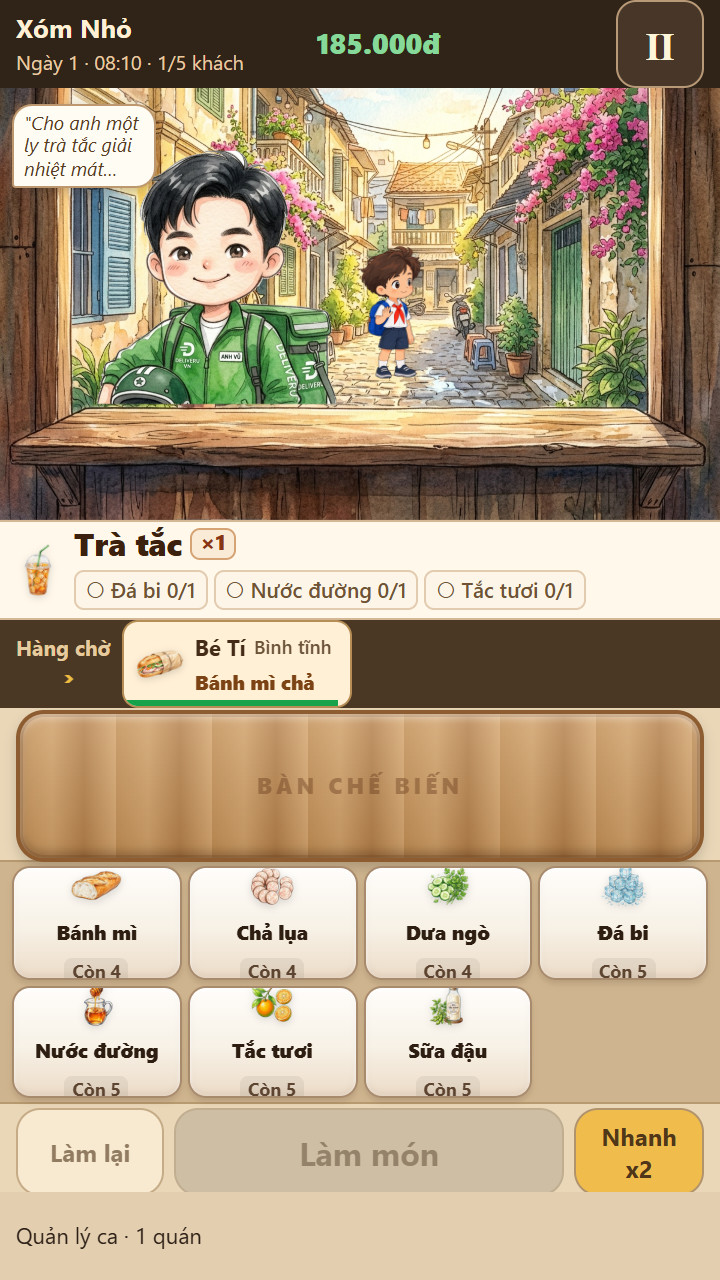
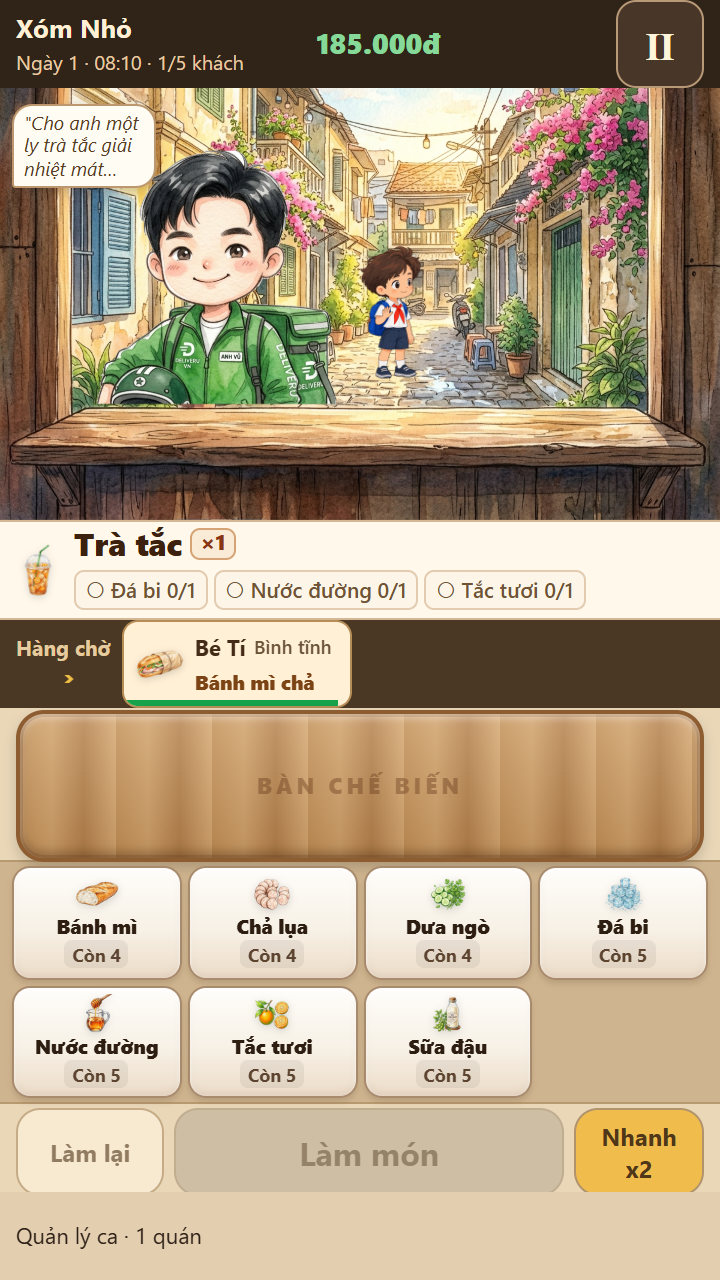
fix(ui): unclip stock lines in ingredient buttons, synchronize adult character to Be Ti standard, audit live toast

diff --git a/game/style.css b/game/style.css
@@ -2683,7 +2683,7 @@ button:focus-visible, [role=button]:focus-visible { outline: 3px solid #0e7490; 
 .cooking-board {margin:3px 8px;position:relative;border:2.5px solid #8d5c31;border-radius:14px;background:linear-gradient(180deg,rgba(255,255,255,0.18) 0%,rgba(0,0,0,0.08) 100%),repeating-linear-gradient(90deg,#c28e53 0px,#cf9e65 16px,#b47f48 32px,#d5a56d 48px);box-shadow:inset 0 2px 4px rgba(255,255,255,0.45),inset 0 -3px 5px rgba(60,30,10,0.35),inset 0 0 0 1.5px rgba(120,68,25,0.3),0 3px 6px rgba(0,0,0,0.16);display:flex;align-items:center;justify-content:center;gap:10px;overflow:hidden;color:#51301b;font-size:12px;min-height:76px;height:76px}
 .cooking-board>b{font-size:11px;max-width:100px}.selected-art{display:flex;align-items:center;justify-content:center;gap:2px;max-width:75%;height:72px}.selected-art img{width:56px;height:66px;object-fit:contain;animation:ingredientDrop .2s ease-out}.prep-assembly{position:relative;display:flex;align-items:center;justify-content:center;height:100%;width:100%}.prep-assembly-dish{display:flex;align-items:center;justify-content:center;height:100%;width:100%}.prep-art-banhmi{height:66px;width:auto;max-width:240px;object-fit:contain;filter:drop-shadow(0 4px 6px rgba(0,0,0,0.28));animation:ingredientDrop .25s ease-out}.prep-art-drink{height:68px;width:auto;max-width:130px;object-fit:contain;filter:drop-shadow(0 4px 6px rgba(0,0,0,0.22));animation:ingredientDrop .25s ease-out}.finished-dish-wrap{display:flex;align-items:center;justify-content:center;height:100%;width:100%}.finished-dish{height:66px;width:auto;max-width:140px;object-fit:contain;filter:drop-shadow(0 4px 6px rgba(0,0,0,0.25));animation:ingredientDrop .25s ease-out}.finished-dish.dish-TRA_TAC,.finished-dish.dish-SUA_DAU_DA{height:68px}.finished-dish.dish-BANH_MI_CHA,.finished-dish.dish-BANH_MI_TRUNG{height:64px;max-width:140px}.prep-idle-state,.prep-handoff-state{display:flex;align-items:center;justify-content:center;width:100%;height:100%}.prep-board-hint{font-size:11px;font-weight:800;letter-spacing:2px;color:rgba(100,55,25,0.4);text-transform:uppercase;font-family:inherit}.prep-handoff-state span{font-size:11.5px;font-weight:800;color:#166534;background:rgba(255,255,255,0.85);padding:2px 8px;border-radius:6px;box-shadow:0 1px 3px rgba(0,0,0,0.15)}.upgrade-header-row{display:flex;align-items:center;gap:6px;margin-bottom:2px}.upgrade-icon{font-size:18px;line-height:1}.upgrade-header-row b{font-size:13px;font-weight:800}.is-cooking .selected-art,.is-cooking .prep-assembly,.is-cooking .prep-assembly-dish{animation:cookSway .5s ease-in-out infinite alternate}.cook-progress{position:absolute;bottom:0;left:0;height:4px;width:100%;background:#f4d5a2}.cook-progress i{display:block;height:100%;background:#a65020}
 .ingredient-tray {display:grid;grid-template-columns:repeat(4,minmax(0,1fr));grid-template-rows:repeat(2,minmax(0,1fr));gap:4px;padding:3px 6px 4px;background:#cfb58f;border-top:1.5px solid #b89a70;border-bottom:1.5px solid #b89a70}
-.ingredient-button {position:relative;padding:2px 1px 2px;display:flex;flex-direction:column;align-items:center;justify-content:center;min-width:44px;min-height:44px;border:1.5px solid #a88a6d;border-radius:9px;background:linear-gradient(180deg,#fffdfa 0%,#f7f1e6 55%,#eddcc8 100%);box-shadow:inset 0 1px 2px rgba(255,255,255,0.9),inset 0 -2px 3px rgba(80,50,20,0.08),0 2px 3px rgba(50,30,10,0.14);color:#3e2714;overflow:hidden}.ingredient-button img{width:44px;height:26px;object-fit:contain;pointer-events:none;filter:drop-shadow(0 1px 2px rgba(0,0,0,0.15))}.ingredient-button b{font-size:10px;font-weight:800;line-height:1.15;margin:1px 0 0;color:#2e1e12}.ingredient-button small{font-size:9px;font-weight:700;height:13px;min-height:13px;line-height:13px;color:#5c4430;display:flex;align-items:center;justify-content:center;gap:2px;background:rgba(0,0,0,0.06);border-radius:4px;padding:0 4px;margin-top:1px}.ing-stock-line .ing-picked{color:#1b5e20;font-weight:900;font-size:9.5px;line-height:13px}.ingredient-button.picked{border-color:#2e7d32;background:linear-gradient(180deg,#f1f8e9 0%,#dcedc8 100%);box-shadow:inset 0 0 0 1.5px #43a047,0 2px 4px rgba(46,125,50,0.22)}.ingredient-button.quota-met{border-color:#2e7d32;background:linear-gradient(180deg,#e8f5e9 0%,#c8e6c9 100%)}.ingredient-button.quota-met:after{content:'✓';position:absolute;top:1px;right:3px;font-size:10px;font-weight:900;color:#1b5e20}.ingredient-button:active{transform:translateY(2px)}.ingredient-button:disabled{opacity:.45;box-shadow:none;filter:grayscale(40%)}.egg-placeholder{height:24px;display:grid;place-items:center;font-size:11px}
+.ingredient-button {position:relative;padding:2px 1px 3px;gap:1px;display:flex;flex-direction:column;align-items:center;justify-content:center;min-width:44px;min-height:44px;border:1.5px solid #a88a6d;border-radius:9px;background:linear-gradient(180deg,#fffdfa 0%,#f7f1e6 55%,#eddcc8 100%);box-shadow:inset 0 1px 2px rgba(255,255,255,0.9),inset 0 -2px 3px rgba(80,50,20,0.08),0 2px 3px rgba(50,30,10,0.14);color:#3e2714;overflow:hidden}.ingredient-button img{width:36px;height:20px;object-fit:contain;pointer-events:none;filter:drop-shadow(0 1px 2px rgba(0,0,0,0.15))}.ingredient-button b{font-size:10px;font-weight:800;line-height:1.1;margin:0;color:#2e1e12}.ingredient-button small{font-size:9px;font-weight:700;height:14px;min-height:14px;line-height:14px;color:#5c4430;display:flex;align-items:center;justify-content:center;gap:2px;background:rgba(0,0,0,0.06);border-radius:4px;padding:0 4px;margin:0;white-space:nowrap}.ing-stock-line .ing-picked{color:#1b5e20;font-weight:900;font-size:9.5px;line-height:14px}.ingredient-button.picked{border-color:#2e7d32;background:linear-gradient(180deg,#f1f8e9 0%,#dcedc8 100%);box-shadow:inset 0 0 0 1.5px #43a047,0 2px 4px rgba(46,125,50,0.22)}.ingredient-button.quota-met{border-color:#2e7d32;background:linear-gradient(180deg,#e8f5e9 0%,#c8e6c9 100%)}.ingredient-button.quota-met:after{content:'✓';position:absolute;top:1px;right:3px;font-size:10px;font-weight:900;color:#1b5e20}.ingredient-button:active{transform:translateY(2px)}.ingredient-button:disabled{opacity:.45;box-shadow:none;filter:grayscale(40%)}.egg-placeholder{height:20px;display:grid;place-items:center;font-size:11px}
 .cook-actions{display:flex;gap:5px;padding:3px 8px 4px;background:#ead7b8}.cook-actions button{border-radius:12px;border:1px solid #b1936c;font-weight:750;font-size:12px;min-width:54px;min-height:44px}.cook-main{flex:1;background:#b44921;color:white;font-size:16px!important;border-color:#7e2d17!important;box-shadow:0 3px 0 #772e19}.cook-main.ready{background:#2d8157;border-color:#1d5139!important;box-shadow:0 3px 0 #1d5139}.cook-main:disabled{background:#bfb098;border-color:#ab987d!important;color:#665640;box-shadow:none}.undo-button{background:#fff3df;color:#624b32}.boost-button{background:#f0bd4c;color:#513719;max-width:65px}.cook-actions button:disabled{opacity:.65}
 .play-status{position:absolute;bottom:96px;left:50%;transform:translateX(-50%);background:rgba(36,20,10,0.94);color:#fff9e6;font-size:11px;font-weight:700;padding:3px 14px;border-radius:20px;box-shadow:0 4px 12px rgba(0,0,0,0.3);z-index:100;pointer-events:none;white-space:nowrap;border:1px solid rgba(255,220,150,0.45);transition:opacity 0.2s ease}.play-status:empty{display:none}.play-options{font-size:11px;background:#e4ceb0;position:relative}.play-options summary{height:44px;min-height:44px;display:flex;align-items:center;padding:0 12px;cursor:pointer}.play-options[open]>div{position:absolute;bottom:44px;right:0;left:0;background:#fff4de;z-index:90;padding:10px;box-shadow:0 -4px 18px #382b1740;display:grid;gap:8px}.play-options button{background:#f5e2c3;border:1px solid #b59770;border-radius:10px;min-height:44px}.play-options small{font-size:12px}
 .morning-dashboard,.end-day {padding:16px;max-width:100%}.morning-hero{height:145px;border-radius:20px;background:linear-gradient(0deg,#392811a0,#39281105),url('../assets/environment/alley_counter_clean.jpg') center 47%/cover;color:#fff3da;padding:20px;display:flex;flex-direction:column;justify-content:flex-end}.morning-hero h2{font-size:26px;margin:0}.morning-hero span{font-weight:750;text-shadow:0 2px 2px #333}.day-stats{display:grid;grid-template-columns:repeat(3,minmax(0,1fr));gap:6px;margin:12px 0}.day-stats>div{padding:12px 5px;border:1px solid #cfb792;border-radius:13px;background:#fff5e2;text-align:center}.day-stats b{font-size:18px;color:#694526;display:block;overflow-wrap:anywhere}.day-stats small{font-size:11px;color:#806a50;display:block}.forecast-card{padding:12px;background:#eee1c6;border-radius:13px;margin:12px 0}.forecast-card p{font-size:13px;margin:5px 0 0}.morning-help,.morning-details{font-size:13px;color:#74573c}.morning-details{margin-top:12px}.morning-details summary,.end-day summary{min-height:44px;padding:12px;background:#f0e1c7;border-radius:10px;cursor:pointer}.upgrade-grid{display:grid;grid-template-columns:1fr 1fr;gap:8px;margin-bottom:10px}.upgrade-grid button{min-height:100px;border:1px solid #cbb593;border-radius:14px;background:#fff4e0;padding:10px;text-align:left;color:#61442b}.upgrade-grid b,.upgrade-grid span,.upgrade-grid small{display:block}.upgrade-grid b{font-size:13px}.upgrade-grid span{font-size:12px;color:#a54c20;margin:4px 0}.upgrade-grid small{font-size:11px;line-height:1.3}.morning-dashboard .btn-secondary{margin:6px 0;min-height:44px;font-size:13px;padding:12px}.morning-dashboard h3,.end-day h3{font-size:15px;margin:15px 0 8px}.end-day h2{font-size:23px;margin:5px 0 12px}.end-day-badge{color:#98713c;font-size:13px;font-weight:800}.feedback-cards{display:grid;gap:8px}.feedback-cards>div{border-left:3px solid #b28750;padding:10px 12px;border-radius:8px;background:#fff4df}.feedback-cards b{font-size:13px;color:#79522e}.feedback-cards p{font-size:13px;margin:4px 0 0}.next-tip{font-size:13px;color:#7b5c37}.result-countdown{display:block;text-align:center;font-size:11px;margin:8px 0 15px}.compact-ledger{padding:10px;font-size:12px}.compact-ledger>div{display:flex;justify-content:space-between;gap:8px;border-bottom:1px dashed #d0b794;padding:6px 0}.compact-ledger p{font-size:12px}.compact-ledger h3{font-size:14px}
@@ -2691,7 +2691,7 @@ button:focus-visible, [role=button]:focus-visible { outline: 3px solid #0e7490; 
 .market-screen,.menu-screen{padding:10px 12px}.capacity-banner{padding:10px;margin-bottom:8px}.capacity-header{font-size:12px}.btn-bundle{padding:10px;font-size:13px}.btn-bundle small{font-size:10px;line-height:1.3}.market-list{display:grid;grid-template-columns:1fr 1fr;gap:7px}.market-item-card{display:flex;flex-wrap:wrap;padding:6px;gap:4px;border-radius:12px;min-width:0}.market-item-img{width:42px;height:36px;object-fit:contain}.market-item-info{flex:1;min-width:75px;gap:0}.market-item-info strong{font-size:12px}.market-item-info span{font-size:11px}.market-item-info small{display:none}.stepper{width:100%;justify-content:space-between;gap:2px}.step-btn{width:44px;height:44px}.market-checkout-dock{padding:8px 0;position:sticky;bottom:0;background:#fbf6ee}.checkout-summary{font-size:12px;margin-bottom:6px}.market-note{font-size:11px}.menu-intro{margin:0 0 8px}.menu-intro h3{font-size:15px;margin:0}.menu-intro p{font-size:12px;margin:3px 0}
 .menu-card{padding:10px 12px;margin:0 0 10px;border-radius:14px;background:#fffcf5;border:1.5px solid #d5be9b}.menu-card.locked-dish{background:#f6efe2;border-style:dashed}.menu-card-top{display:flex;align-items:center;gap:10px;margin-bottom:6px}.menu-dish-thumb{width:44px;height:44px;object-fit:contain;flex-shrink:0;filter:drop-shadow(0 2px 3px rgba(0,0,0,0.12))}.menu-dish-identity{flex:1;min-width:0}.menu-toggle{display:flex;align-items:center;gap:6px;min-height:32px;cursor:pointer}.menu-toggle input{width:20px;height:20px;margin:0;cursor:pointer;flex-shrink:0}.menu-toggle strong{font-size:14px;font-weight:800;color:#3b2210}.cost-estimate{display:block;font-size:11px;color:#765b3c;margin-top:1px}.menu-lock-condition{padding:6px 10px;background:#f0e4cf;border:1px solid #d0bc9b;border-radius:8px;font-size:11px;font-weight:600;color:#754f24;margin:4px 0 6px}.price-tiers-row{display:flex;align-items:center;justify-content:space-between;margin:6px 0;gap:6px}.price-tier-label{font-size:11px;font-weight:600;color:#583c22}.price-tier-buttons{display:flex;gap:6px}.price-tier-btn{min-width:44px;min-height:44px;padding:6px 12px;border:1.5px solid #bba17b;border-radius:10px;background:#f6ebd8;color:#4e341b;font-weight:700;font-size:13px}.price-tier-btn.selected{background:#b44921;color:#ffffff;border-color:#7e2d17}.menu-margin-preview{font-size:11px;color:#216d3f;font-weight:600;margin-top:4px}.price-demand-hint{font-size:11px;color:#b45309;margin-top:3px}.opening-time-section{padding:8px;margin-top:8px}.opening-time-section label{font-size:12px}.time-btn{min-height:44px;padding:6px;font-size:12px}.opening-note{font-size:11px;margin:6px 0}.menu-footer{padding:8px 0}.btn-primary{min-height:48px;font-size:15px;padding:12px;border-radius:14px}.cover-tag{font-size:11px}.cover-desc{font-size:14px}.top-nav{min-height:54px}
 @keyframes ingredientDrop{from{transform:translateY(-12px);opacity:0}to{transform:translateY(0);opacity:1}}@keyframes cookSway{from{transform:translateX(-3px)}to{transform:translateX(3px)}}@keyframes reactBounce{50%{transform:translateY(-5px)}}
-@media(max-height:640px){.play-screen{grid-template-rows:44px minmax(180px,1fr) auto 44px 76px 122px 44px 44px}.play-header{padding:2px 8px}.play-header b{font-size:13px}.play-header small{font-size:10px}.play-pause{width:44px;height:44px;font-size:19px}.active-order-strip{padding:2px 6px;min-height:38px;gap:2px}.order-strip-main{gap:5px}.order-strip-main .ticket-dish-img{width:26px;height:26px}.ticket-dish-name{font-size:16px;font-weight:800;line-height:1.15}.ticket-qty-pill{font-size:10.5px;padding:0 4px}.ticket-special-badge{font-size:10px;padding:0 4px}.active-order-strip .receipt-checklist{gap:3px;flex-wrap:wrap}.receipt-item{font-size:10.5px;padding:2px 5px}.queue-ticket{min-height:44px;height:44px;padding:1px 6px}.queue-dish-thumb{width:24px;height:24px}.queue-dish-name{font-size:10px;font-weight:800;text-overflow:clip}.cooking-board{margin:1px 8px;min-height:76px;height:76px;font-size:11px}.prep-assembly-dish{height:100%}.prep-art-banhmi{height:64px;width:auto;max-width:220px}.prep-art-drink{height:66px;width:auto;max-width:120px}.selected-art{height:64px}.selected-art img{height:58px;width:48px}.finished-dish{height:64px;width:auto;max-width:130px}.finished-dish.dish-TRA_TAC,.finished-dish.dish-SUA_DAU_DA{height:66px}.finished-dish.dish-BANH_MI_CHA,.finished-dish.dish-BANH_MI_TRUNG{height:62px;max-width:130px}.ingredient-tray{gap:3px;padding:2px 6px}.ingredient-button{padding:1px;min-height:44px}.ingredient-button img{width:42px;height:24px}.ingredient-button b{font-size:10px;margin:0;line-height:1.1}.ingredient-button small{font-size:9px;height:13px;min-height:13px;line-height:13px}.cook-actions{padding:2px 8px 3px;gap:5px}.cook-actions button{min-height:44px}.play-status{bottom:92px;font-size:10.5px;padding:3px 10px}.play-options summary{height:44px;min-height:44px;display:flex;align-items:center;padding:0 8px;font-size:11px}}
+@media(max-height:640px){.play-screen{grid-template-rows:44px minmax(180px,1fr) auto 44px 76px 122px 44px 44px}.play-header{padding:2px 8px}.play-header b{font-size:13px}.play-header small{font-size:10px}.play-pause{width:44px;height:44px;font-size:19px}.active-order-strip{padding:2px 6px;min-height:38px;gap:2px}.order-strip-main{gap:5px}.order-strip-main .ticket-dish-img{width:26px;height:26px}.ticket-dish-name{font-size:16px;font-weight:800;line-height:1.15}.ticket-qty-pill{font-size:10.5px;padding:0 4px}.ticket-special-badge{font-size:10px;padding:0 4px}.active-order-strip .receipt-checklist{gap:3px;flex-wrap:wrap}.receipt-item{font-size:10.5px;padding:2px 5px}.queue-ticket{min-height:44px;height:44px;padding:1px 6px}.queue-dish-thumb{width:24px;height:24px}.queue-dish-name{font-size:10px;font-weight:800;text-overflow:clip}.cooking-board{margin:1px 8px;min-height:76px;height:76px;font-size:11px}.prep-assembly-dish{height:100%}.prep-art-banhmi{height:64px;width:auto;max-width:220px}.prep-art-drink{height:66px;width:auto;max-width:120px}.selected-art{height:64px}.selected-art img{height:58px;width:48px}.finished-dish{height:64px;width:auto;max-width:130px}.finished-dish.dish-TRA_TAC,.finished-dish.dish-SUA_DAU_DA{height:66px}.finished-dish.dish-BANH_MI_CHA,.finished-dish.dish-BANH_MI_TRUNG{height:62px;max-width:130px}.ingredient-tray{gap:3px;padding:2px 6px}.ingredient-button{gap:1px;padding:2px 1px 3px;min-height:44px}.ingredient-button img{width:36px;height:20px}.ingredient-button b{font-size:10px;margin:0;line-height:1.1}.ingredient-button small{font-size:9px;height:14px;min-height:14px;line-height:14px;white-space:nowrap}.cook-actions{padding:2px 8px 3px;gap:5px}.cook-actions button{min-height:44px}.play-status{bottom:92px;font-size:10.5px;padding:3px 10px}.play-options summary{height:44px;min-height:44px;display:flex;align-items:center;padding:0 8px;font-size:11px}}
 @media(prefers-reduced-motion:reduce){.selected-art img,.finished-dish,.is-cooking .selected-art,.play-customer.react{animation:none}}
 /* Town map and staffing overlay: provisional UI, no new generated art. */
 .empire-nav{display:flex;gap:8px;margin:10px 0}.empire-nav button{flex:1;min-height:44px;border:1px solid #b8986b;border-radius:12px;padding:8px;background:#eee0c8;color:#5b4129;font-weight:700;font-size:12px}.empire-backdrop{position:fixed;inset:0;background:#2c2419b8;z-index:220;display:flex;justify-content:center;align-items:center;padding:12px}.empire-panel{width:100%;max-width:460px;max-height:calc(100dvh - 24px);overflow:auto;border:2px solid #b6915c;border-radius:20px;background:#fcf3e0;padding:15px;box-shadow:0 10px 30px #201a1680}.empire-panel>header{display:flex;align-items:center;gap:8px;justify-content:space-between}.empire-panel h2{font-size:19px;margin:0}.empire-panel>header button{min-width:44px;min-height:44px;background:#ead8b8;border:1px solid #b3966b;border-radius:12px;font-size:24px}.panel-hint{font-size:12px;color:#77593a;margin:8px 0 12px}.town-map{display:grid;gap:12px;padding:12px;border-radius:18px;background:repeating-linear-gradient(0deg,#d5c9a5 0,#d5c9a5 35px,#e8ddbf 36px,#e8ddbf 42px)}.map-location{border:2px solid #b79c70;padding:12px;border-radius:16px;background:#fff6df;box-shadow:0 3px 0 #9b8965}.map-location.school{margin-left:18px}.map-location.office{margin-right:18px}.map-location.selected{border-color:#3c8051;background:#eaf3da}.map-location.locked{background:#e3dbc9;border-style:dashed}.map-location h3{font-size:16px;margin:4px 0}.map-location p{font-size:12px;margin:6px 0}.map-location small{display:block;font-size:11px;color:#715739}.map-location button{display:block;width:100%;min-height:44px;border:1px solid #a88b5f;border-radius:11px;background:#bc5a2e;color:#fff7e2;font-size:13px;font-weight:700;margin-top:8px}.map-location button:disabled{background:#b8a78b;color:#f5eddf}.map-metrics{display:flex;justify-content:space-between;gap:6px;font-size:12px}.staff-list{display:grid;gap:9px}.employee-card{border:1px solid #c1a77b;border-radius:14px;background:#fff9ed;padding:12px}.employee-card h3{font-size:14px;margin:0 0 7px}.employee-meters{display:flex;gap:8px;flex-wrap:wrap;font-size:11px;color:#7a5836}.employee-card small{font-size:11px}.employee-actions{display:flex;flex-wrap:wrap;gap:6px;margin-top:8px}.employee-actions button{min-height:44px;flex:1;min-width:100px;border:1px solid #b69a70;border-radius:9px;background:#f2dfbb;font-size:11px;color:#533a23}.employee-actions .release-staff{background:#f4ddd1;color:#8d3c27}.hire-grid{display:grid;grid-template-columns:1fr;gap:10px}.staff-role-card{border:1px solid #c8af88;border-radius:14px;background:#fffcf5;padding:12px;box-shadow:0 2px 5px rgba(0,0,0,0.05);display:flex;flex-direction:column;gap:5px}.staff-role-card.role-locked{background:#f5eedf;border-style:dashed}.role-card-header{display:flex;justify-content:space-between;align-items:center}.role-card-header h4{margin:0;font-size:15px;font-weight:800;color:#3b2210}.role-wage{font-size:12px;font-weight:700;color:#b44921;background:#faebd7;padding:2px 7px;border-radius:6px}.role-perk{margin:0;font-size:12px;color:#583d23;line-height:1.35}.role-status-row{font-size:11px}.role-tag.hired{color:#166534;font-weight:700}.role-tag.locked{color:#854d0e;font-weight:600}.role-tag.available{color:#1e40af;font-weight:600}.btn-hire{width:100%;min-height:44px;min-width:44px;border:1.5px solid #a8885b;border-radius:10px;background:#bc5a2e;color:#fff7e2;font-size:13px;font-weight:800;cursor:pointer;margin-top:2px}.btn-hire:disabled{background:#d3c4ad;color:#705d47;border-color:#bea98e;cursor:not-allowed;opacity:0.85}.branch-results{display:grid;gap:12px;margin-bottom:15px}.branch-results article{border:1px solid #cdb58a;border-radius:15px;background:#fff5df;padding:12px}.branch-results header{display:flex;justify-content:space-between;align-items:center}.branch-results h3{font-size:16px;margin:0 0 8px}.branch-results small,.branch-results p{font-size:12px}.branch-results h4{font-size:13px;margin:10px 0 5px}.branch-results summary{font-size:12px}
